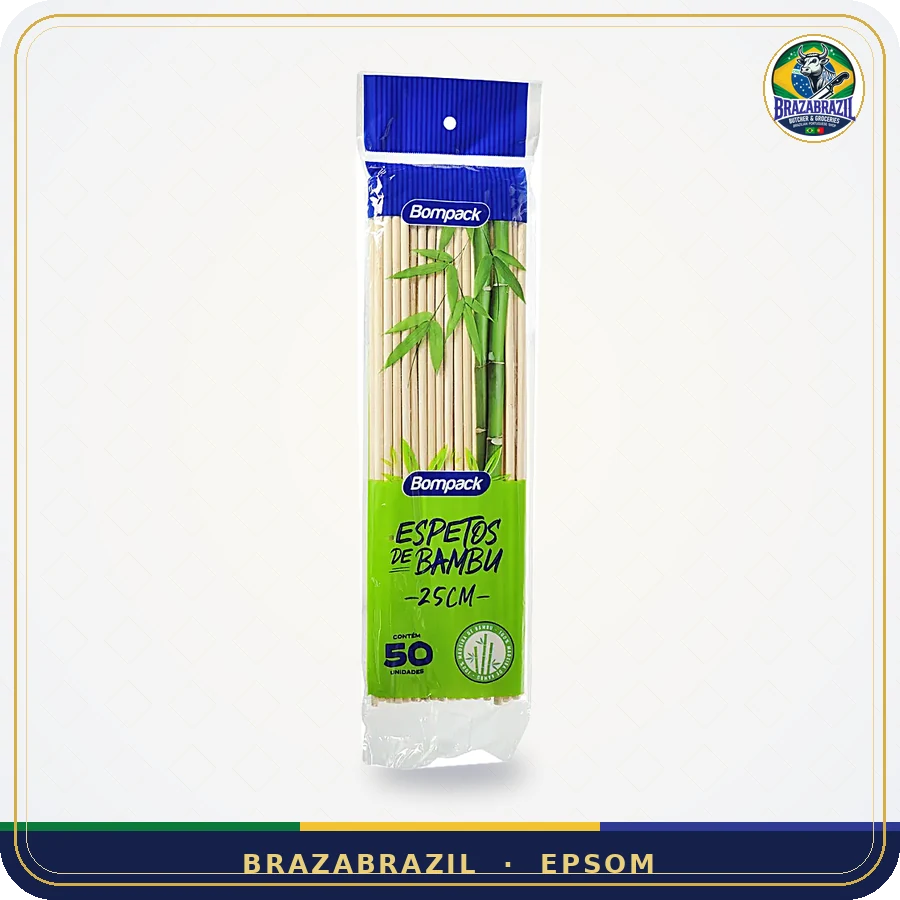
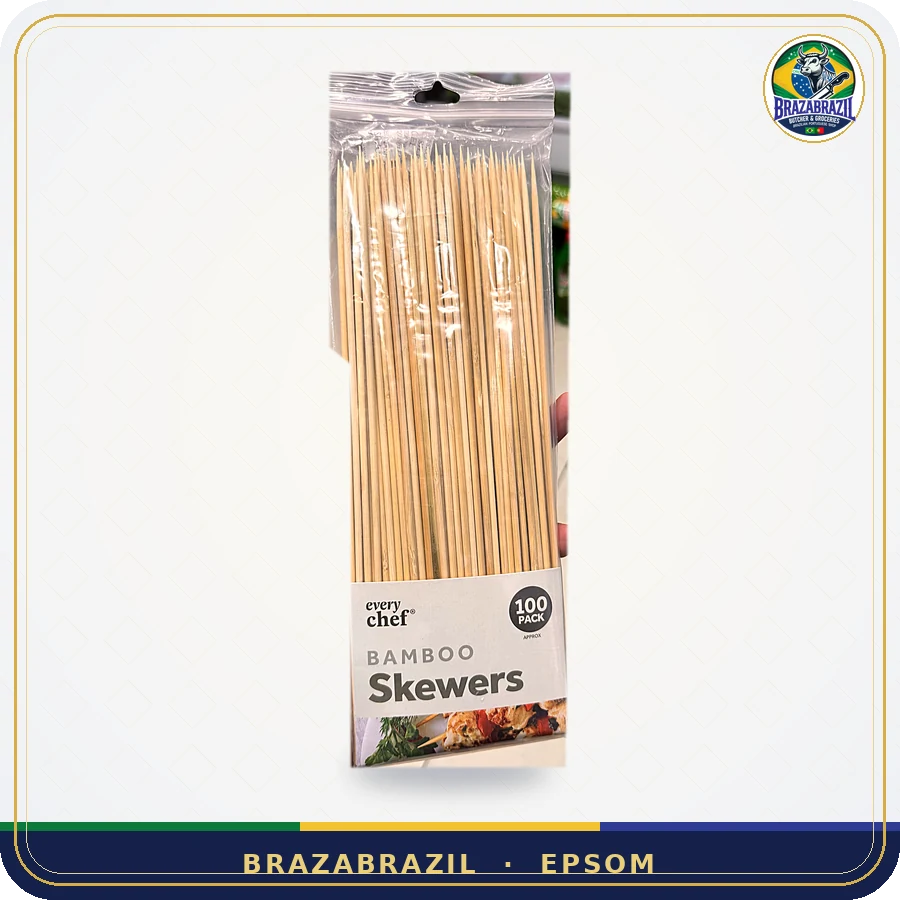
Espetos de bambu Every Chef 100 un com foto real; remove polpa de cupuaçu 1 kg
Claude-Session: https://claude.ai/code/session_01DDRaaWaovpG94AFaRVuRbM

Changed region(s): [[0.3422, 0.0622, 0.6533, 0.8711]]

diff --git a/js/frozen.js b/js/frozen.js
@@ -70,8 +70,7 @@ window.GROUPS.frozen = [
     { en: "Polpa Norte frozen fruit pulp · 100 g", pt: "Polpa congelada Polpa Norte · 100 g", es: "Pulpa de fruta congelada Polpa Norte · 100 g" },
     { en: "100% fruit pulp for juices, smoothies and desserts.", pt: "100% polpa de fruta para sucos, vitaminas e sobremesas.", es: "100% pulpa de fruta para zumos, batidos y postres." },
     [["polpa-maracuja", "Maracujá", 1.99, "polpa-maracuja"], ["polpa-manga", "Manga", 0, "polpa-maracuja"],
-     ["polpa-caja", "Cajá", 0, "polpa-maracuja"], ["polpa-acerola", "Acerola", 0, "polpa-maracuja"],
-     ["polpa-cupuacu-1kg", "Cupuaçu · 1 kg", 0, "polpa-maracuja"]],
+     ["polpa-caja", "Cajá", 0, "polpa-maracuja"], ["polpa-acerola", "Acerola", 0, "polpa-maracuja"]],
     { tags: ["frozen", "vegan"] });
   S("cupuacu", "Creme de Cupuaçu Polpa Norte", "acai", 9.99, "cupuacu",
     { en: "Cupuaçu cream · 1.02 kg", pt: "Creme de cupuaçu · 1,02 kg", es: "Crema de cupuaçu · 1,02 kg" },
@@ -192,7 +191,7 @@ window.GROUPS.frozen = [
      ["gel-pudim", "Pudim de leite condensado", 0, "geladinho"], ["gel-coco-queimado", "Coco queimado", 0, "geladinho"], ["gel-acai-ninho", "Açaí com Ninho", 0, "geladinho"],
      ["gel-ninho-morango", "Ninho com morango", 0, "geladinho"], ["gel-abacate", "Abacate", 0, "geladinho"], ["gel-ninho-nutella", "Ninho com Nutella", 0, "geladinho"],
      ["gel-doce-leite", "Doce de leite", 0, "geladinho"]]);
-  const SOON = new Set(["polpa-manga", "polpa-caja", "polpa-acerola", "polpa-cupuacu-1kg", "pasteis-bacalhau", "geladinho", "gel-maracuja", "gel-leite-condensado", "gel-morango-nutella", "gel-pudim", "gel-coco-queimado", "gel-acai-ninho", "gel-ninho-morango", "gel-abacate", "gel-ninho-nutella", "gel-doce-leite"]);
+  const SOON = new Set(["polpa-manga", "polpa-caja", "polpa-acerola", "pasteis-bacalhau", "geladinho", "gel-maracuja", "gel-leite-condensado", "gel-morango-nutella", "gel-pudim", "gel-coco-queimado", "gel-acai-ninho", "gel-ninho-morango", "gel-abacate", "gel-ninho-nutella", "gel-doce-leite"]);
   out.forEach(p => { if (SOON.has(p.id)) { p.available = false; p.soon = true; } });
   // sort: by group order, then lowest price (groups use their cheapest option)
   const byId = Object.fromEntries(out.map(p => [p.id, p]));

diff --git a/js/kitchen.js b/js/kitchen.js
@@ -137,8 +137,8 @@ window.GROUPS.kitchen = [
     { en: "Stainless-steel barrel charcoal grill", pt: "Churrasqueira a carvão em aço inox", es: "Parrilla de carbón tipo barril" },
     { en: "Portable charcoal barrel grill — perfect for the garden churrasco.", pt: "Churrasqueira barril a carvão, portátil — perfeita para o churrasco no quintal.", es: "Parrilla de carbón portátil — perfecta para el jardín." });
 
-  S("espetos-bambu", "Espetos de Bambu Bompack · 25 cm", "churrasco", 2.50, "espetos-bambu",
-    { en: "Bamboo skewers · 50 pcs", pt: "Palitos de bambu para espetinho · 50 un", es: "Brochetas de bambú · 50 un" },
+  S("espetos-bambu", "Espetos de Bambu Every Chef · 100 un", "churrasco", 2.50, "espetos-bambu",
+    { en: "Bamboo skewers · 100 pack", pt: "Palitos de bambu para espetinho · 100 un", es: "Brochetas de bambú · 100 un" },
     { en: "For espetinhos, kebabs and party snacks.", pt: "Para espetinhos de churrasco e petiscos.", es: "Para brochetas y aperitivos." });
   G("kit-churrasco", "Kit Churrasco Tramontina · faca e garfo", "churrasco",
     { en: "Barbecue carving set · knife & fork", pt: "Jogo para churrasco · faca e garfo trinchante", es: "Juego para asado · cuchillo y tenedor" },
